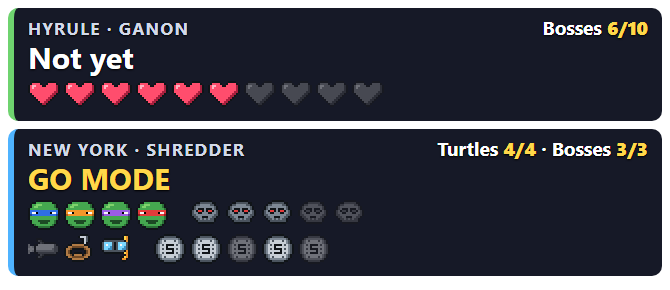
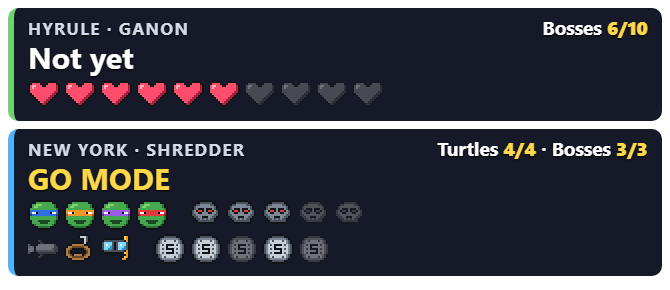
feat(obs): scalable vector go mode panel
The panel now scales itself to whatever size its browser source has (CSS zoom over a 670x290 design, 1330x175
with layout=row), and its icons are SVG: tools/sprites.py writes every sprite as vector squares next to the
PNGs. Text and icons are redrawn sharp at any size; checked in OBS 32.2.2 at 670x290, 1005x435 and 1340x580.

The Kloak scene gets its own 1.5x panel source (1005x435) instead of the small one. The site says plainly how
to resize: set the source's Width/Height, then Reset Transform; dragging the frame stretches a finished
picture and blurs it.

diff --git a/tools/obs/go-mode.html b/tools/obs/go-mode.html
@@ -12,8 +12,10 @@
   Parameters: server (ws:// address), alttp and tmnt (slot names), password, demo=1 (fake data, no server),
   layout=column|row.
 
-  Size: the cards are laid out for a 670x290 source shown at 1:1 (tools/make_obs_collection.py), so OBS never
-  rescales the text; the 64 px sprites are drawn at exactly 32 px. Scaling the source in OBS blurs it.
+  Size: the panel scales itself to fill the browser source (the design is 670x290; layout=row is 1330x175), and
+  text and icons (SVG, tools/sprites.py) are vector, so it stays sharp at any size. Set the size in the source's
+  properties (Width, Height) and show the source at 1:1. Dragging the source bigger or smaller in the OBS canvas
+  instead makes OBS stretch a finished picture, which blurs it.
 
   It connects twice to the Archipelago server as a "Tracker" client (one connection per slot, read only)
   and reads what any tracker can read:
@@ -36,10 +38,11 @@
     --done: #6fd36f;
     --bad: #ff7b7b;
   }
-  html, body { margin: 0; background: var(--bg); color: var(--text);
+  html, body { margin: 0; background: var(--bg); color: var(--text); overflow: hidden;
     font: 700 20px/1.2 "Segoe UI", system-ui, sans-serif; text-shadow: 0 1px 2px #000; }
   .panel { display: flex; flex-direction: column; gap: 8px; padding: 8px; width: 654px; }
-  .panel.row { flex-direction: row; width: auto; }
+  .panel.row { flex-direction: row; width: 1314px; }
+  .panel.row .card { flex: 1; }
   .card { background: var(--card); border-radius: 10px; padding: 8px 14px; border-left: 6px solid var(--title); }
   .card.hyrule { border-left-color: var(--hyrule); }
   .card.newyork { border-left-color: var(--newyork); }
@@ -53,8 +56,7 @@
   .state.off { color: var(--bad); font-size: 22px; }
   .icons { display: flex; gap: 4px; align-items: center; margin: 2px 0; height: 32px; }
   .icons .gap { width: 14px; }
-  /* 64 px sprites at exactly half size: every sprite pixel stays a sharp 2x2 block. */
-  .icon { width: 32px; height: 32px; image-rendering: pixelated; transition: opacity 0.4s, filter 0.4s; }
+  .icon { width: 32px; height: 32px; transition: opacity 0.4s, filter 0.4s; }
   .icon.off { opacity: 0.38; filter: grayscale(1) brightness(1.3); }
 </style>
 </head>
@@ -78,7 +80,17 @@ const params = new URLSearchParams(location.search);
 const SERVER = params.get("server") || "ws://localhost:38281";
 const PASSWORD = params.get("password") || "";
 const CLIENT_GOAL = 30;
-if (params.get("layout") === "row") document.getElementById("panel").classList.add("row");
+const ROW = params.get("layout") === "row";
+if (ROW) document.getElementById("panel").classList.add("row");
+
+// Fill the browser source whatever its size: CSS zoom lays the panel out again at the new size, so text and the
+// SVG icons are drawn sharp (unlike OBS stretching the finished picture).
+const DESIGN = ROW ? [1330, 175] : [670, 290];
+function fit() {
+  document.getElementById("panel").style.zoom = Math.min(innerWidth / DESIGN[0], innerHeight / DESIGN[1]);
+}
+addEventListener("resize", fit);
+fit();
 
 const ALTTP = "A Link to the Past";
 const TMNT = "Teenage Mutant Ninja Turtles";
@@ -92,7 +104,7 @@ const $ = id => document.getElementById(id);
 
 // Our own pixel icons, drawn for this project by tools/sprites.py (no game sprites, no fan art).
 function icon(sprite, title) {
-  return Object.assign(document.createElement("img"), { src: `sprites/${sprite}.png`, title, alt: title,
+  return Object.assign(document.createElement("img"), { src: `sprites/${sprite}.svg`, title, alt: title,
     className: "icon off" });
 }
 const gap = () => Object.assign(document.createElement("span"), { className: "gap" });

diff --git a/site/stream.html b/site/stream.html
@@ -32,8 +32,8 @@
     <table>
       <tr><th>Scene</th><th>Shows</th></tr>
       <tr><td>Hyrule</td><td>The ALttP BizHawk window, the ALttP PopTracker, the go mode panel.</td></tr>
-      <tr><td>Kloak (övergång)</td><td>A sewer-green interlude with the caption "Into the sewers...", the panel and both
-        trackers. Use it between the games.</td></tr>
+      <tr><td>Kloak (övergång)</td><td>A sewer-green interlude with the caption "Into the sewers...", a bigger panel
+        and both trackers. Use it between the games.</td></tr>
       <tr><td>New York</td><td>The TMNT BizHawk window, the TMNT PopTracker, the go mode panel.</td></tr>
     </table>
     <div class="figs">
@@ -54,7 +54,8 @@
     scene of the host's own are left alone. To switch scenes by hand only, start with <code>-NoObsSwitch</code>.</p>
     <figure><img src="img/obs-live-newyork.png" alt="New York scene from OBS"><figcaption>OBS's own picture of New York
       after a swap (OBS 32.2.2, 2026-10-31): game, tracker and panel live. The window capture is ready 0.3 s after the
-      switch, before the pizza-wipe uncovers it. White here is the transparent background.</figcaption></figure>
+      switch, before the pizza-wipe uncovers it. White here is the transparent background. (Taken with the earlier,
+      blurrier panel; the panel below is the current one.)</figcaption></figure>
 
     <h2 id="panel">Go mode panel</h2>
     <figure><img src="img/panel.png" alt="Go mode panel"><figcaption>Demo data: six Hyrule dungeon bosses down, TMNT in go mode.</figcaption></figure>
@@ -69,9 +70,15 @@
         (needs a wider source)</td></tr>
       <tr><td><code>demo</code></td><td>off</td><td><code>demo=1</code> shows fake data without a server</td></tr>
     </table>
-    <p>The scene collection shows the panel at its own size, 670×290, at 1:1: a browser source that OBS has to scale
-    gets blurry text and uneven pixel icons. If you move it, keep its size (or set the source's width and height to
-    the new size).</p>
+    <div class="warn"><b>Changing the panel's size</b>The panel is vector (text and SVG icons) and redraws itself
+      sharp at whatever size its browser source has. So change the size in the <b>source</b>, not on the canvas:
+      <ol>
+        <li>Right-click the panel → <b>Properties</b> → set <b>Width</b> and <b>Height</b> (keep about 670:290, e.g.
+          1005×435 for 1.5×, 1340×580 for 2×; <code>layout=row</code> is 1330:175) → OK.</li>
+        <li>Right-click it again → <b>Transform → Reset Transform</b>, so OBS shows it at 1:1.</li>
+      </ol>
+      Dragging the red frame's corners instead makes OBS stretch a finished picture, and the panel gets blurry
+      again. The collection uses 670×290 in Hyrule and New York and its own 1005×435 panel in Kloak.</div>
     <p><b>Hyrule</b> shows the ten dungeon bosses as hearts and "DONE ✔" once Ganon is beaten. <b>New York</b> shows the
     turtles, packs, passes, the Area bosses (3 needed) and "GO MODE" when the Technodrome is in logic. ALttP's crystals
     are not counted: they are shuffled between dungeons and have no item IDs.</p>

diff --git a/site/dev.html b/site/dev.html
@@ -86,7 +86,7 @@ apps\BizHawk-2.11.1\EmuHawk.exe --lua=%CD%\lua\game_swap_test.lua "roms\Teenage 
   following every swap.</p>
 
   <h2>Rebuild generated files</h2>
-<pre><code>.venv\Scripts\python.exe tools\sprites.py                     :: tools\obs\sprites\*.png
+<pre><code>.venv\Scripts\python.exe tools\sprites.py                     :: tools\obs\sprites\*.png and *.svg
 .venv\Scripts\python.exe tools\make_poptracker_pack.py --install  :: poptracker\tmnt-ap
 .venv\Scripts\python.exe tools\make_stinger.py                 :: tools\obs\pizza_wipe.webm (needs imageio-ffmpeg)
 .venv\Scripts\python.exe tools\make_obs_collection.py          :: tools\obs\tmnt-alttp-scenes.json</code></pre>

diff --git a/site/site.css b/site/site.css
@@ -102,7 +102,8 @@ pre code { background: none; border: 0; padding: 0; }
 }
 .warn { border-left-color: var(--sauce); }
 .ok { border-left-color: var(--turtle); }
-.note b:first-child, .warn b:first-child, .ok b:first-child { display: block; margin-bottom: 2px; }
+.note > b:first-child, .warn > b:first-child, .ok > b:first-child { display: block; margin-bottom: 2px; }
+.note ol, .warn ol { margin: 6px 0; padding-left: 22px; }
 
 ol.steps { counter-reset: step; list-style: none; padding-left: 0; }
 ol.steps > li { counter-increment: step; position: relative; padding-left: 44px; margin: 14px 0; }

diff --git a/tools/make_obs_collection.py b/tools/make_obs_collection.py
@@ -6,7 +6,7 @@ Scene Collection -> Import).
 
 Scenes (1920x1080):
   Hyrule            the ALttP BizHawk window, the ALttP PopTracker and the go mode panel
-  Kloak (övergång)  a sewer-green backdrop, a caption, the go mode panel and both trackers
+  Kloak (övergång)  a sewer-green backdrop, a caption, a bigger go mode panel and both trackers
   New York          the TMNT BizHawk window, the TMNT PopTracker and the go mode panel
 and the pizza-wipe stinger (tools/make_stinger.py) as the default transition. The window captures match the
 fixed titles tools/start_stream.ps1 gives the windows. Paths are absolute for this checkout; rerun the script
@@ -23,7 +23,10 @@ NAME = "TMNT x ALttP"
 WIDTH, HEIGHT = 1920, 1080
 BIZHAWK_CLASS = "WindowsForms10.Window.8.app.0.3297317_r6_ad1"  # BizHawk 2.11.1's main form, seen 2026-10-31
 TRANSITION_POINT_MS = 500  # tools/make_stinger.py
-PANEL = (670, 290)  # go mode panel, shown at 1:1; tools/obs/go-mode.html is laid out for this size
+# Go mode panel sizes, each shown at 1:1. tools/obs/go-mode.html scales itself to its source's size (vector text
+# and icons), so a bigger panel is a bigger source, never a stretched one.
+PANEL = (670, 290)
+PANEL_KLOAK = (1005, 435)  # 1.5x
 
 # BizHawk's window has a menu bar and a status bar around the game picture (2x zoom, client area).
 BIZHAWK_CROP = {"crop_top": 21, "crop_bottom": 22, "crop_left": 0, "crop_right": 0}
@@ -70,10 +73,12 @@ def build(server: str, alttp: str, tmnt: str) -> dict:
     tmnt_tracker = window("TMNT-tracker (PopTracker)",
                           "PopTracker - Teenage Mutant Ninja Turtles-Item Tracker via AP", "SDL_app", "poptracker.exe")
     panel_url = (OBS_DIR / "go-mode.html").as_uri() + f"?server={server}&alttp={alttp}&tmnt={tmnt}"
-    # The panel is drawn at the size it is shown (1:1, PANEL): scaling a browser source blurs its text.
-    panel = source("browser_source", "Go mode-panel", {"is_local_file": False, "url": panel_url, "width": PANEL[0],
-                                                       "height": PANEL[1], "fps_custom": False, "shutdown": False,
-                                                       "restart_when_active": False})
+    # The panel is drawn at the size it is shown (1:1): OBS stretching a browser source blurs its text.
+    panel, panel_kloak = (
+        source("browser_source", name, {"is_local_file": False, "url": panel_url, "width": size[0],
+                                        "height": size[1], "fps_custom": False, "shutdown": False,
+                                        "restart_when_active": False})
+        for name, size in (("Go mode-panel", PANEL), ("Go mode-panel (Kloak)", PANEL_KLOAK)))
     sewer = source("color_source_v3", "Kloak-bakgrund", {"color": 0xFF1F2A1B, "width": WIDTH, "height": HEIGHT})
     caption = source("text_gdiplus_v3", "Kloak-text", {
         "text": "Into the sewers...", "font": {"face": "Segoe UI", "size": 96, "style": "Bold", "flags": 1},
@@ -90,8 +95,8 @@ def build(server: str, alttp: str, tmnt: str) -> dict:
                                   item(tmnt_tracker, 2, *tracker_box, scale_filter="bicubic"),
                                   item(panel, 3, *panel_box)])
     sewer_scene = scene("Kloak (övergång)", [item(sewer, 1, 0, 0, WIDTH, HEIGHT),
-                                             item(caption, 2, 160, 120, 1600, 200),
-                                             item(panel, 3, (WIDTH - PANEL[0]) / 2, 400, *PANEL),
+                                             item(caption, 2, 160, 90, 1600, 180),
+                                             item(panel_kloak, 3, (WIDTH - PANEL_KLOAK[0]) // 2, 290, *PANEL_KLOAK),
                                              item(alttp_tracker, 4, 40, 740, 560, 320, scale_filter="bicubic"),
                                              item(tmnt_tracker, 5, 1320, 740, 560, 320, scale_filter="bicubic")])
 
@@ -102,7 +107,8 @@ def build(server: str, alttp: str, tmnt: str) -> dict:
     scenes = [hyrule, sewer_scene, new_york]
     return {"name": NAME, "current_scene": "Hyrule", "current_program_scene": "Hyrule",
             "scene_order": [{"name": s["name"]} for s in scenes],
-            "sources": [alttp_game, tmnt_game, alttp_tracker, tmnt_tracker, panel, sewer, caption, *scenes],
+            "sources": [alttp_game, tmnt_game, alttp_tracker, tmnt_tracker, panel, panel_kloak, sewer, caption,
+                        *scenes],
             "groups": [], "transitions": [stinger], "current_transition": "Pizza-wipe", "transition_duration": 300,
             "quick_transitions": [], "saved_projectors": [], "modules": {}, "preview_locked": False,
             "scaling_enabled": False, "scaling_level": 0, "scaling_off_x": 0.0, "scaling_off_y": 0.0}

diff --git a/tools/sprites.py b/tools/sprites.py
@@ -2,7 +2,8 @@
 
     .venv/Scripts/python.exe tools/sprites.py
 
-Writes tools/obs/sprites/<name>.png at 4x (64x64, nearest neighbour). All art here is drawn for this project:
+Writes tools/obs/sprites/<name>.png at 4x (64x64, nearest neighbour) and <name>.svg, the same pixels as vector
+squares, which the go mode panel uses so it stays sharp at any size. All art here is drawn for this project:
 no game sprites and no fan art, since free TMNT fan art does not exist (the characters belong to Nickelodeon).
 Each grid row is one line of pixels; each letter is a colour from PALETTE, "." is transparent.
 """
@@ -190,11 +191,33 @@ def render(rows: list[str], swap: dict[str, str] | None = None, scale: int = SCA
     return image.resize((image.width * scale, image.height * scale), Image.NEAREST)
 
 
+def svg(rows: list[str], swap: dict[str, str] | None = None) -> str:
+    """The grid as an SVG with one square per pixel (runs of one colour in a row merged), crisp at any size."""
+    assert all(len(row) == len(rows[0]) for row in rows), "ragged grid"
+    rects = []
+    for y, row in enumerate(rows):
+        x = 0
+        while x < len(row):
+            colour = PALETTE.get((swap or {}).get(row[x], row[x]))
+            run = 1
+            while x + run < len(row) and PALETTE.get((swap or {}).get(row[x + run], row[x + run])) == colour:
+                run += 1
+            if colour:
+                rects.append(f'<rect x="{x}" y="{y}" width="{run}" height="1" fill="{colour}"/>')
+            x += run
+    return (f'<svg xmlns="http://www.w3.org/2000/svg" viewBox="0 0 {len(rows[0])} {len(rows)}" '
+            f'shape-rendering="crispEdges">{"".join(rects)}</svg>\n')
+
+
+def all_grids() -> dict[str, tuple[list[str], dict[str, str] | None]]:
+    """name -> (grid, colour swap) for every sprite."""
+    grids = {name: (TURTLE_HEAD, {"X": colours[0], "x": colours[1]}) for name, colours in BANDANAS.items()}
+    grids |= {name: (rows, None) for name, rows in SPRITES.items()}
+    return grids
+
+
 def all_sprites(scale: int = SCALE) -> dict[str, Image.Image]:
-    sprites = {name: render(TURTLE_HEAD, {"X": colours[0], "x": colours[1]}, scale)
-               for name, colours in BANDANAS.items()}
-    sprites |= {name: render(rows, scale=scale) for name, rows in SPRITES.items()}
-    return sprites
+    return {name: render(rows, swap, scale) for name, (rows, swap) in all_grids().items()}
 
 
 def main() -> None:
@@ -202,6 +225,8 @@ def main() -> None:
     sprites = all_sprites()
     for name, image in sprites.items():
         image.save(OUT / f"{name}.png")
+    for name, (rows, swap) in all_grids().items():
+        (OUT / f"{name}.svg").write_text(svg(rows, swap), encoding="utf-8")
     sheet = Image.new("RGBA", (len(sprites) * 72, 72), (32, 48, 64, 255))
     for i, image in enumerate(sprites.values()):
         sheet.alpha_composite(image, (i * 72 + 4, 4))

diff --git a/docs/stream-verktyg.md b/docs/stream-verktyg.md
@@ -33,7 +33,13 @@ file:///C:/Project/tmntalttp/tools/obs/go-mode.html?server=ws://localhost:38281&
 - **All text som syns på streamen är engelsk:** panelen, BizHawk-menyn (SELECT AREA, Locked, Connect the AP client), meddelandena ("Got X from Y", "Found X") och OBS-texten "Into the sewers...". Dokumentationen är fortfarande svensk.
 - Den ansluter som en skrivskyddad Tracker-klient och påverkar inte spelet.
 - Med `&demo=1` visas påhittade värden utan server, och `&layout=row` lägger korten bredvid varandra.
-- Panelen ritas i 670×290 och visas i 1:1 i scenerna. Tidigare ritades den i 900×240 och pressades ihop till 670 px med filtret "point", vilket gjorde texten suddig och hackig (påpekat av Oscar 2026-10-31). Ikonerna, som är 64 px, visas nu i exakt 32 px. Trackrarna skalas med "bicubic", spelen fortfarande med "point".
+- **Panelen är vektorbaserad:** texten är HTML, och ikonerna är SVG från `tools/sprites.py`, där varje pixel är en ruta. Sidan skalar sig själv med CSS `zoom` till källans storlek. Grundmåttet är 670×290, och 1330×175 med `layout=row`. Provat i OBS 32.2.2 i 670×290, 1005×435 och 1340×580, och den var skarp i alla.
+- **Ändra storlek i källan, inte på duken:**
+  1. Högerklicka på panelen → Properties → Width/Height.
+  2. Högerklicka igen → Transform → Reset Transform, så att den visas i 1:1.
+
+  Drar man i ramens hörn sträcker OBS ut en färdig bild, och då blir panelen suddig. Det var orsaken till att den var suddig förut: den ritades i 900×240 och pressades ihop till 670 px med filtret "point" (påpekat av Oscar 2026-10-31).
+- **Storlekar i samlingen:** Hyrule och New York har 670×290. Kloak har en egen källa i 1005×435. Trackrarna skalas med "bicubic", spelen fortfarande med "point".
 - ALttP:s kristaller syns inte i panelen. De är logikhändelser utan ID och slumpas mellan dungeons. Runnern ser dem på kartan i spelet.
 - Testad 2026-10-31 mot en lokal MultiServer, både med ett TMNT-seed (`/send` och `/send_location` gav live-uppdatering till GO MODE) och med ett helt ALttP+TMNT-seed. Inte testad i OBS.
 
